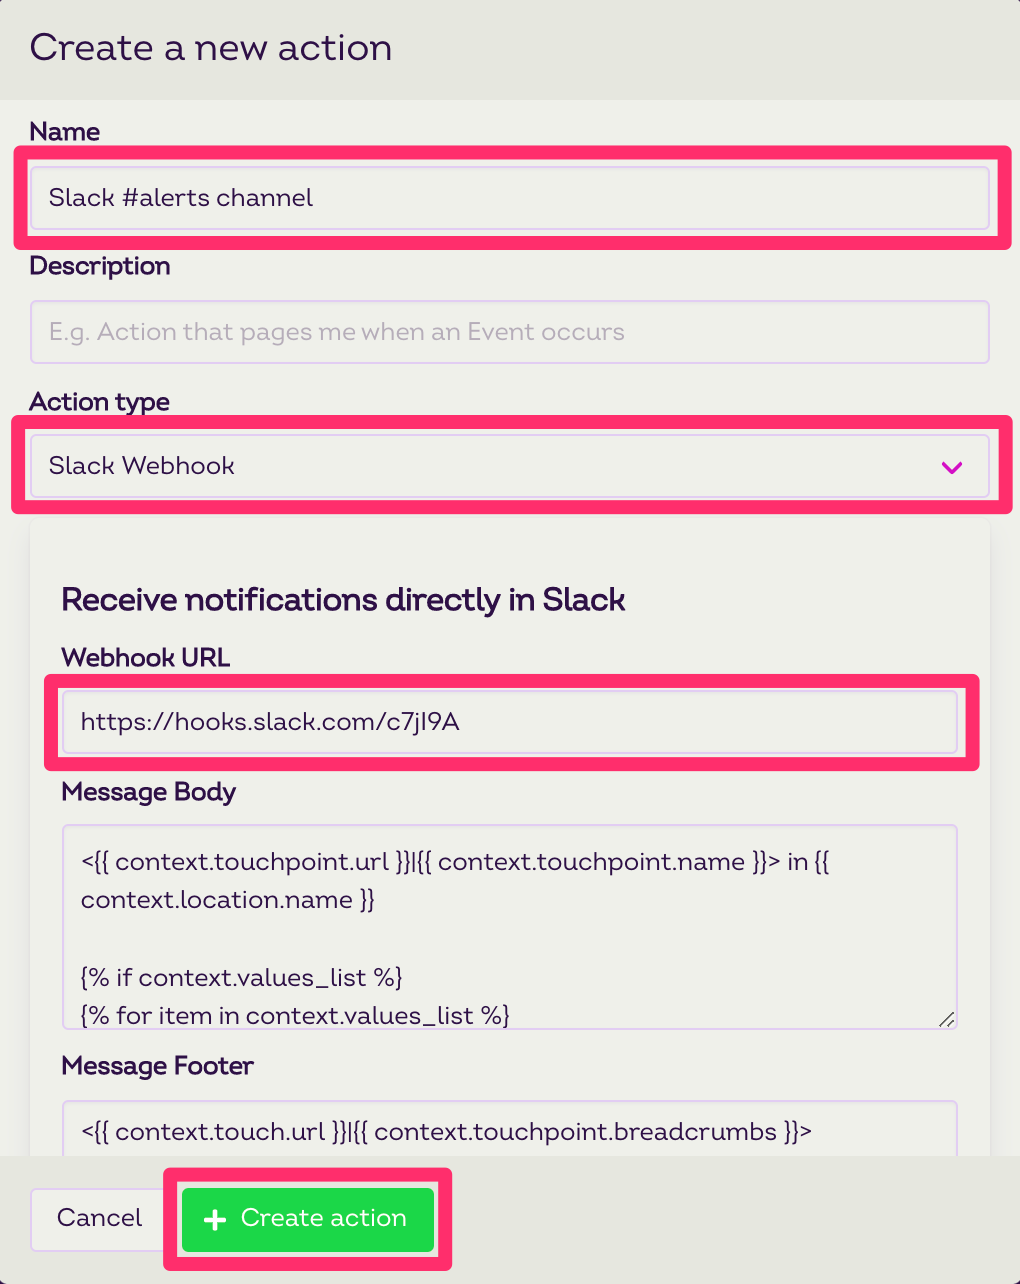
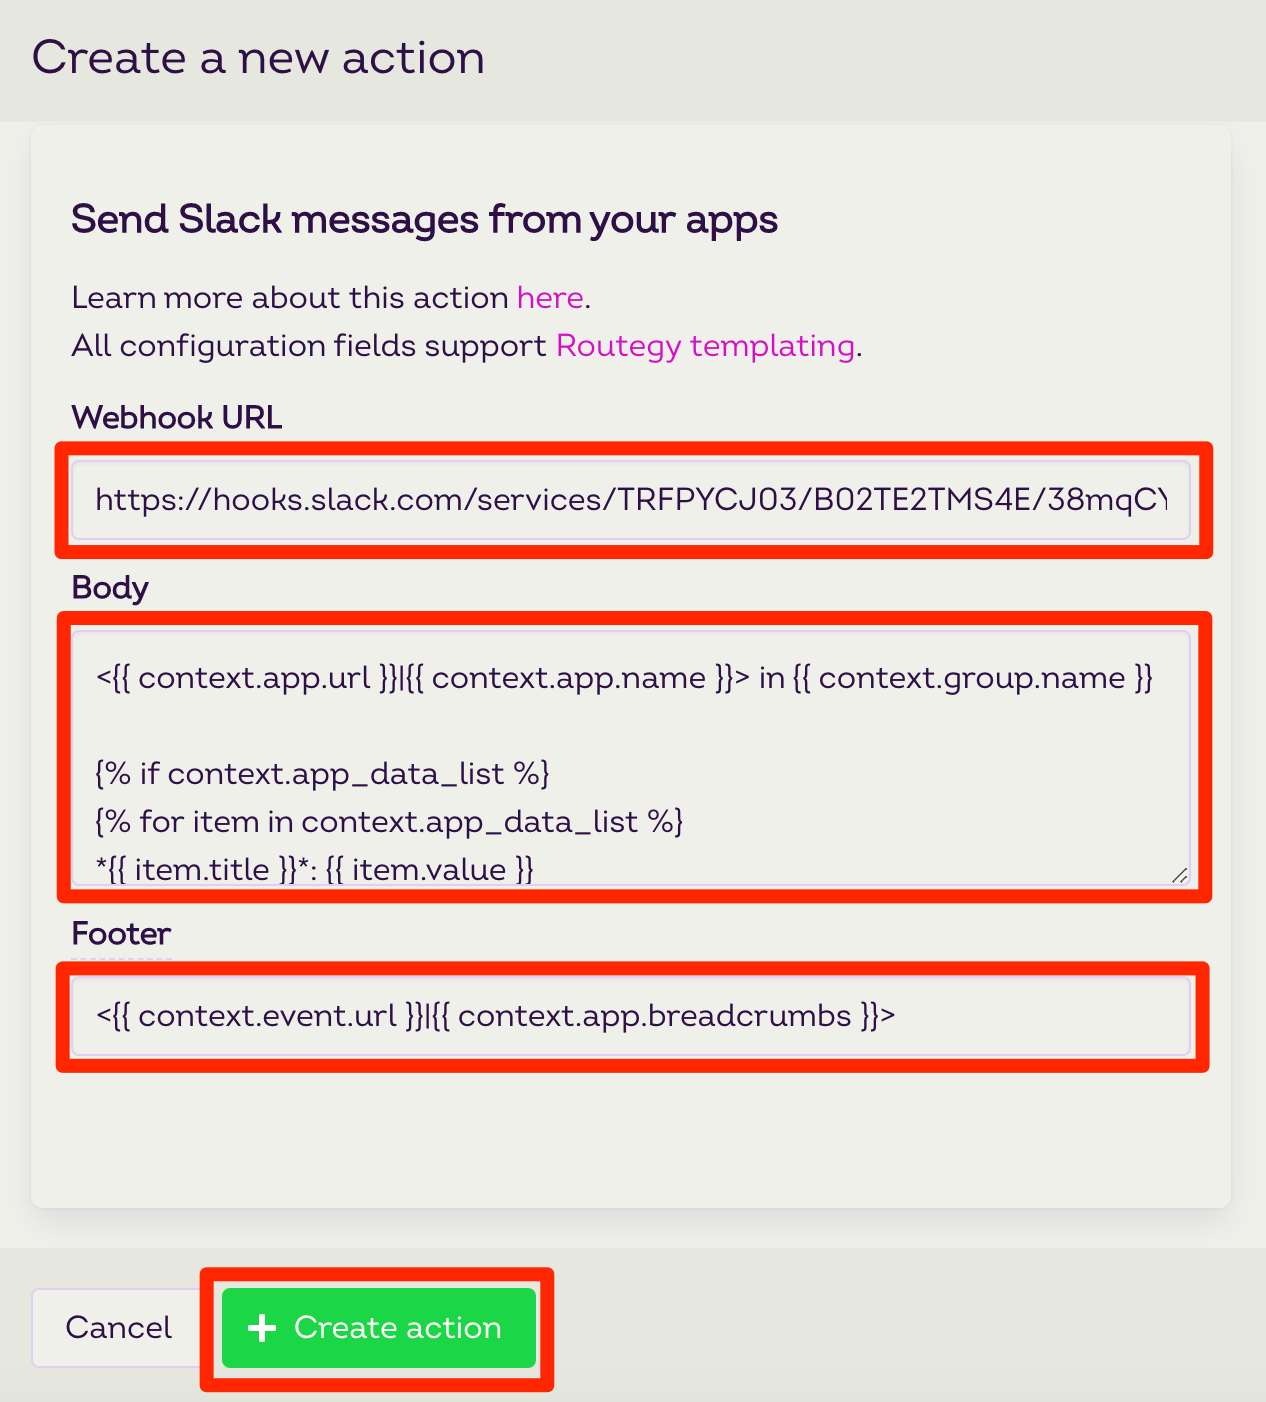
Update Slack action reference and how-to

diff --git a/app/docs/how-to/receive-slack-notifications.md b/app/docs/how-to/receive-slack-notifications.md
@@ -7,9 +7,20 @@ description: "How do I receive Slack notifications?"
 
 This how-to covers how to make use of the [Slack Webhook Action Type](/reference/action-types/slack-webhook/) to receive slack message notifications when someone interacts with one of your apps.
 
+
+## Enable incoming webhooks in your Slack workspace
+
+First, create an incoming webhook for your slack workspace as outlined in [this official guide](https://api.slack.com/messaging/webhooks). Once your webhook is created, copy and save its URL - you will need it in the next step.
+
+<CaptionedImage
+  src="/images/how-tos/slack-copy-webhook-url.png"
+  alt="Slack incoming webhooks configurations page"
+  width="70%"
+/>
+
 ## Create the action
 
-Follow the steps below to create an [action](/reference/actions/) for sending email notifications.
+Second, follow the steps below to create an [action](/reference/actions/) for sending Slack messages using the webbhook that you created above.
 
 ### Step 1: Choose a workspace
 
@@ -33,31 +44,27 @@ Select the **Actions** tab within the workspace view and press the **+ New Actio
 
 ### Step 3: Select the Slack action type
 
-From the action creation model, select **Slack** from the _Action type_ dropdown list.
+In the action creation dialog, select **Slack Webhook** from the _Action type_ dropdown list.
 
 <CaptionedImage
-  src="/images/modals/personal-office-coffee-machine-edit-app-actions-slack.png"
+  src="/images/modals/office-create-action-slack.png"
   alt="An expanded dropdown containing a list of available action types with 'Slack' highlighted in the Routegy admin app"
   width="70%"
 />
 
 ### Step 4: Configure the action
 
-Enter the URL for your Slack Outgoing Webhook you wish to use, and click on **+ Create action** to complete the process.
-
-::: tip
-Create or view your Slack webhook integrations [here](https://slack.com/apps/A0F7VRG6Q-outgoing-webhooks).
-:::
+Enter the URL of the Slack Incoming Webhook that your created earlier. Optionally, you can also customize the body and footer of a Slack message. Both _Body_ and _Footer_ fields support [Routegy templating](/reference/templating) that is based on [Jinja2](https://jinja.palletsprojects.com/en/3.0.x/). When all fields are configured, click on **+ Create action** to complete the process.
 
 <CaptionedImage
-  src="/images/modals/personal-office-coffee-machine-edit-app-actions-slack-save.png"
+  src="/images/modals/office-create-action-slack-filled.png"
   alt="The completed Slack action in the 'New action' dialog with the 'Create action' button highlighted in the Routegy admin app"
   width="70%"
 />
 
 ## Attach the action to an app
 
-Follow the steps below to attach the Webhook action created above to one or more [apps](/reference/apps/).
+Finally, follow the steps below to attach the Slack Webhook action created above to one or more [apps](/reference/apps/).
 
 ### Step 1: Choose an app
 

diff --git a/app/docs/reference/action-types/slack-webhook.md b/app/docs/reference/action-types/slack-webhook.md
@@ -5,38 +5,10 @@ description: "How do Slack webhook action types work?"
 
 # Slack webhook
 
-The Slack webhook action type is used to send a message to Slack for every [event](/reference/events/) created by an [app](/reference/apps/).
+The Slack webhook action type is used to send a message to Slack for every [event](/reference/events/) created by an [app](/reference/apps/). Messages are sent using [incoming webhooks](https://api.slack.com/messaging/webhooks) for Slack apps.
 
-::: tip
-Slack messages can be configured using [templating](/reference/templating/).
-:::
+You can customize the body and footer of the message, both of which support [Routegy templating](/reference/templating).
 
 ## Guides
 
 * [How-to: Receive slack notifications](/how-to/receive-slack-notifications/)
-
-## Screenshots
-
-### Create
-
-<CaptionedImage
-  src="/images/modals/office-create-action-slack.png"
-  alt="The 'New action' dialog with the 'Slack' action type selected in the Routegy admin app"
-  width="75%"
-/>
-
-### Configure
-
-<CaptionedImage
-  src="/images/modals/office-create-action-slack-filled.png"
-  alt="The 'New action' dialog with the 'Slack' action type configured in the Routegy admin app"
-  width="75%"
-/>
-
-### Example
-
-<CaptionedImage
-  src="/images/actions/personal-office-coffee-machine-slack.png"
-  alt="A Slack message generated by an interaction with a Routegy app named 'Coffee machine'"
-  width="75%"
-/>
